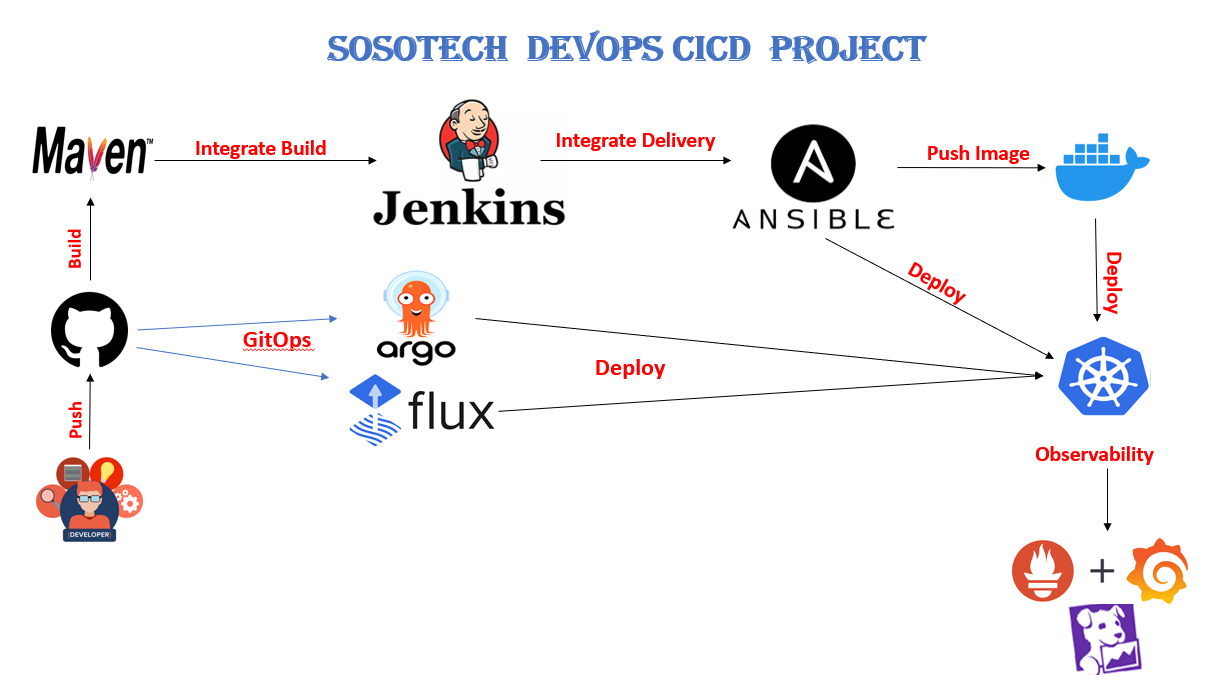
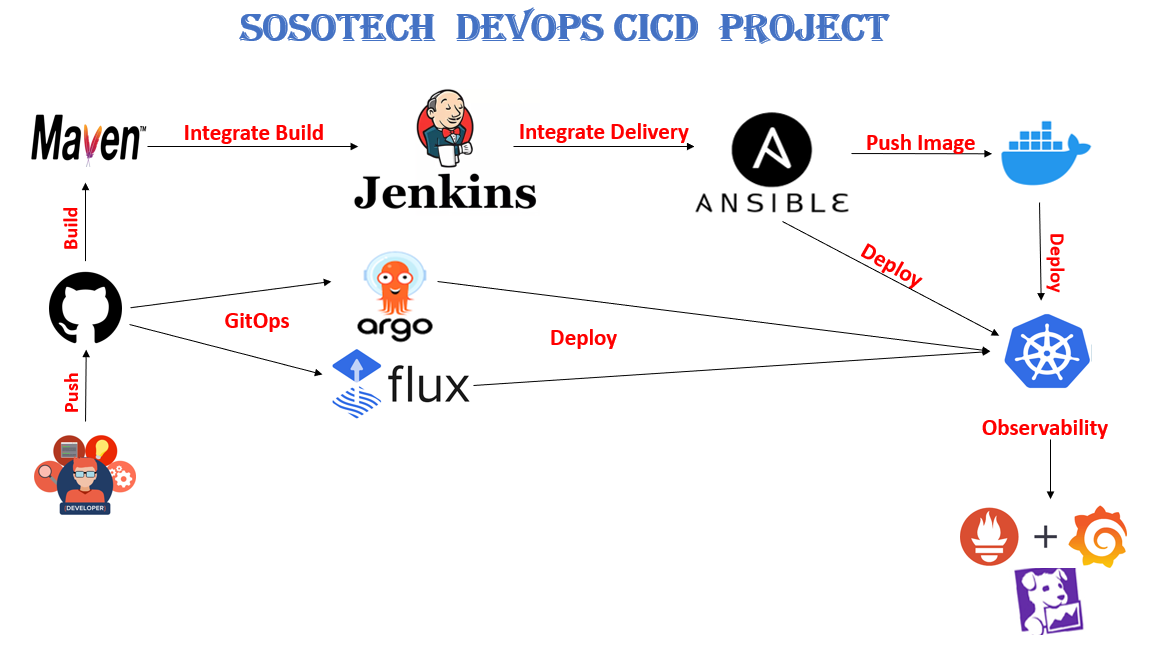
Updated arc diagram

diff --git a/Kubernetes/README copy.md b/Kubernetes/README copy.md
@@ -1,7 +1,6 @@
 # Sosotech DevOps Project
 
-[![Image](https://github.com/sosotechnologies/sosodevops.git/sosotech_apps Project - CI/CD with Jenkins Ansible Docker Kubernetes ")]
-
+https://github.com/sosotechnologies/sosodevops.git
 ### Purpose:
 This repo will be used for a seamless DevOps CI/CD Pipeline using
 - git
